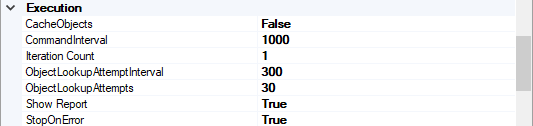
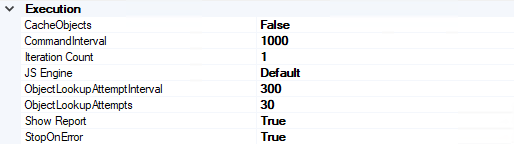
NodeJS described

diff --git a/docs/Guide/jscript_language_reference.md b/docs/Guide/jscript_language_reference.md
@@ -1,5 +1,46 @@
 # JScript Language Reference
 
+## NodeJS vs JScript
+
+Default JS engine for Rapise is Microsoft JScript with **WScript** runtime. This document contains language reference for this version.
+
+Since Rapise 6.7 there is an alternative JavaScript runtime - [NodeJS](https://nodejs.org/) v14.15.3. As for 6.7 it is an experimental feature that you may enable either for [single test project](settings_dialog.md#execution) or [globally](options_dialog.md#execution). 
+
+### NodeJS Support Features and Limitations
+
+As of Rapise 6.7 NodeJS support is still experimental and default engine is still JScript/WScript. However the plan is to make NodeJS the default in the future.
+
+Switching to NodeJS is safe in most of the cases - older tests should just work on new JS runtime without any noticeable differences.
+
+The engine is defined in two places:
+1. In the [Test Settings](settings_dialog.md#execution) (one of **Default**, **Node**, **WScript**). Where **Default** means use engine defined in the [Global Options](options_dialog.md#execution).
+2. In [Global Options](options_dialog.md#execution) (one of **Default**, **Node**, **WScript**). Where **Default** means **WScript**, but in the future it will be **Node**. 
+
+#### Features
+
+1. NodeJS v14 contains most of latest features of JavaScript including [EcmaScript2015 (ES6) and beyond](https://nodejs.org/en/docs/es6/). You may see more detailed list of features [here](https://node.green/).
+2. The language reference covers EcmaScript v2 supported by default JScript Engine. It is missing majority of latest features, properties and methods. For example, there is no `Array.join` or `String.trim`. You may find the most complete and up to date language reference at [https://developer.mozilla.org/en-US/docs/Web/JavaScript/Reference](https://developer.mozilla.org/en-US/docs/Web/JavaScript/Reference). 
+3. You may use most of available [npm](https://www.npm.org/) packages in your test scripts. You may include `node_modules` folders in the root of your testing framework (i.e. `%WORKDIR%\node_modules`).
+
+#### Limitations
+
+1. Rapise IDE and JavaScript editor contains lots of features for comfortable JavaScript editing. This part is now tailored for JScript/WScript and may show `false negative` behavior. It may show warnings during editing because some syntax is not JScript compatible (although it is fine for Node/ES6). I.e. the following language features are not understood by the parser and may show a warning that you need to just ignore:
+    * `let`, `const` keywords
+    * `()=>lambda` function definitions
+    * `(...args)`
+    * `{parts,of,obj} = someobj`
+    * `obj = {field, defs}`
+    * '`' strings 
+    * `class` support
+    * getters, setters
+    * object methods.
+
+2. NodeJS engine now runs in 32 bit mode. This is required to keep compatibility with `ActiveXObject` support that is an issential part of WScript but has to be emulated in NodeJS.
+
+3. Rapise has own copy of **node.exe** installed. So if you have npm modules installed globally and need to use them in your test, you have to install them locally into the framework.
+
+4. **npm** is not installed with Rapise. So if you want ot use it, you need to have one installed seaparately.
+
  
 ## [Reference](http://jsdoc.inflectra.com/Default.aspx?href=html/js56jslrfJScriptLanguageReference.htm)
   <li><a href="http://jsdoc.inflectra.com/Default.aspx?href=html/js56jslrfFeatureInformation.htm" title="Feature Information">Feature Information</a></li>

diff --git a/docs/Guide/settings_dialog.md b/docs/Guide/settings_dialog.md
@@ -42,7 +42,9 @@ There is a build-in set of test parameters for [cross-browser testing](cross_bro
 
 * **CacheObjects**: Remember object locations and try to reuse them for speed.  This is helpful with dialog based applications.
 * **CommandInterval**: Time interval (in milliseconds) between script commands during script execution.
+* **
 * **IterationsCount**: Your test script will be executed this many times consecutively during [Playback](playback.md).
+* **JS Engine**: one of **Default**, **Node**, **WScript**. Where **Default** means use **JSEngineType** defined in the [Global Options](options_dialog.md#execution). Otherwise use [nodejs](jscript_language_reference.md) or [JScript/WScript](jscript_language_reference.md) engine correspondingly.
 * **ObjectLookupAttemptInterval**: This is the time Rapise will wait between attempts to locate an object.
 * **ObjectLookupAttempts**: This is the number of times Rapise will attempt to locate an object.
 * **Show Report**: Display report after execution. Default is **True**.

diff --git a/docs/Guide/options_dialog.md b/docs/Guide/options_dialog.md
@@ -36,6 +36,12 @@ Set **SplashScreen** to **False** to prevent the splash screen from appearing.
     * `true`: An object added to the Object Repository for each request. Then it is initialized using `var <request_object_id> = SeS(<request_object_id>)`.
     * `false`: Don't add anything to the object tree. Each request is initialized as `var <request_object_id> = /**RESTRequest*/Session.GetRESTRequest('<definition>.rest', '<request_id>')`. This approach makes it easier to generate re-usable functions doing REST calls without need to load objects. See [Session.GetRESTRequest](../Libraries/Session.md#getrestrequest).
 
+## Execution
+
+![execution](./img/options_dialog_execution.png)
+
+* **JSEngineType**: In the test settings (one of **Default**, **Node**, **WScript**). Where **Default** means **WScript**, but in the future it will eventually become **Node**. 
+
 ## Settings
 
 ![options.dialog.settings](./img/options_dialog5.png)
